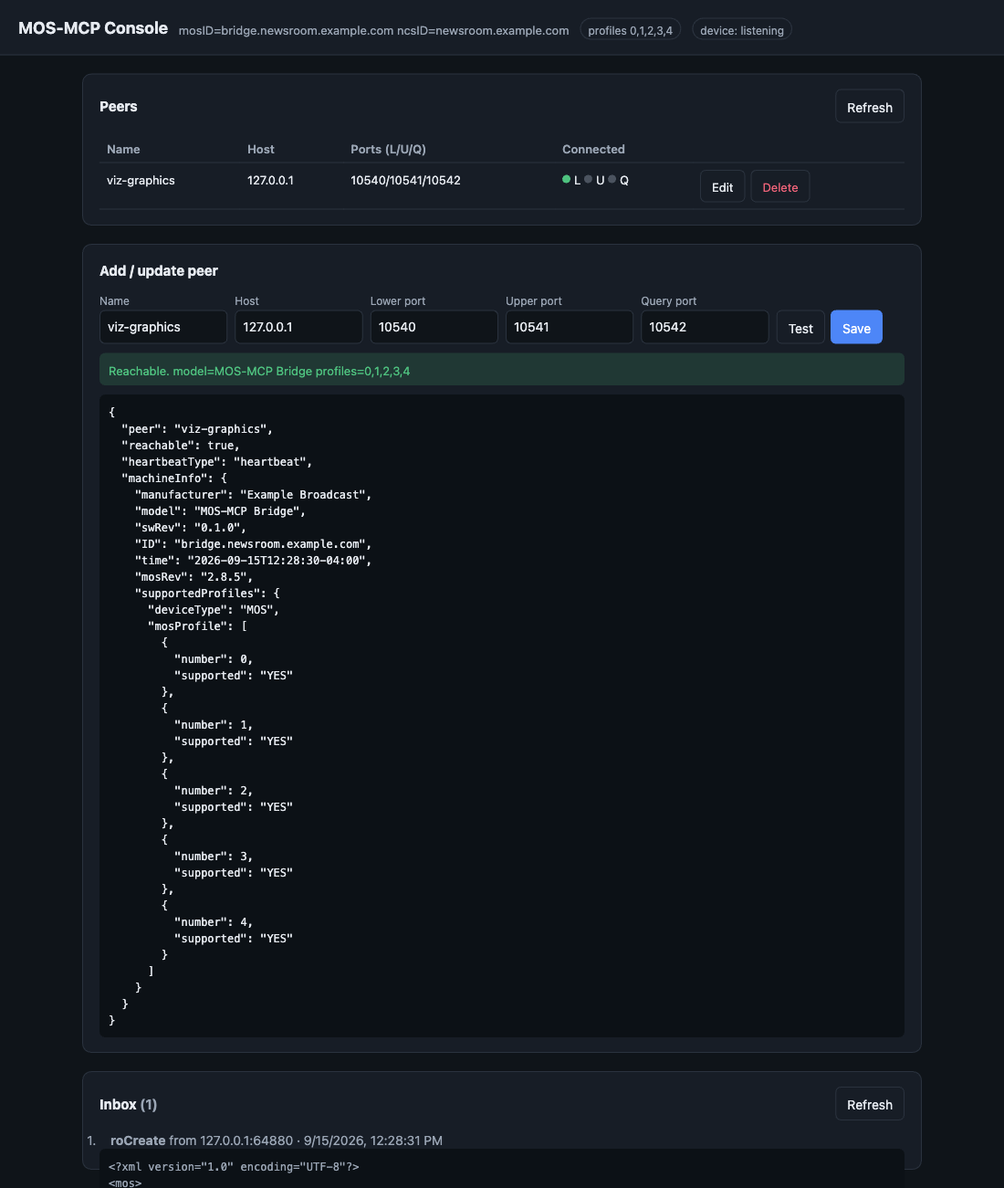
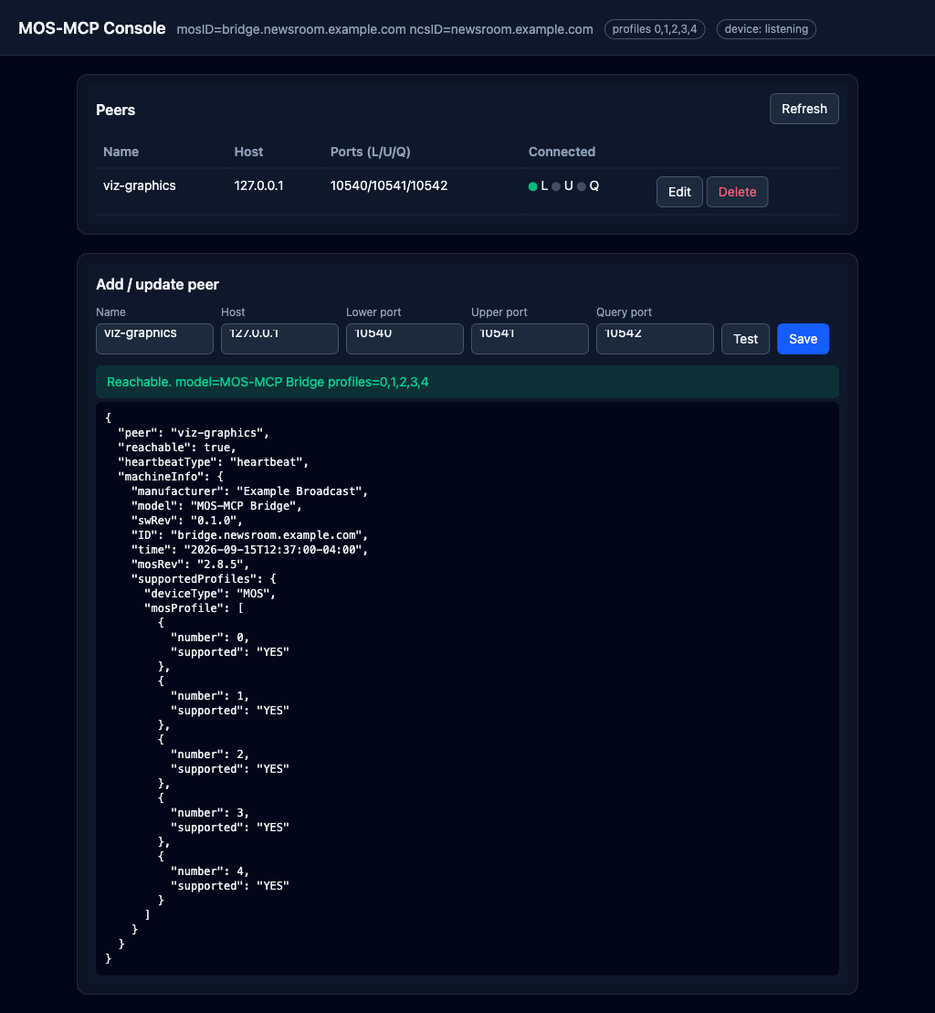
Style admin console with embedded Tailwind CSS
Restyle the console using Tailwind utility classes and @apply component
classes, keeping the existing layout and behavior. CSS is compiled by the
standalone Tailwind CLI (no Node) via scripts/build-css.sh / `make css`;
the generated internal/web/static/tailwind.css is committed and embedded
via go:embed so `go build`/`go install` stay self-contained. Screenshots
regenerated against the new UI.

diff --git a/internal/web/static/tailwind.css b/internal/web/static/tailwind.css
@@ -1,0 +1,2 @@
+/*! tailwindcss v4.3.3 | MIT License | https://tailwindcss.com */
+@layer properties{@supports (((-webkit-hyphens:none)) and (not (margin-trim:inline))) or ((-moz-orient:inline) and (not (color:rgb(from red r g b)))){*,:before,:after,::backdrop{--tw-border-style:solid;--tw-font-weight:initial;--tw-shadow:0 0 #0000;--tw-shadow-color:initial;--tw-shadow-alpha:100%;--tw-inset-shadow:0 0 #0000;--tw-inset-shadow-color:initial;--tw-inset-shadow-alpha:100%;--tw-ring-color:initial;--tw-ring-shadow:0 0 #0000;--tw-inset-ring-color:initial;--tw-inset-ring-shadow:0 0 #0000;--tw-ring-inset:initial;--tw-ring-offset-width:0px;--tw-ring-offset-color:#fff;--tw-ring-offset-shadow:0 0 #0000;--tw-blur:initial;--tw-brightness:initial;--tw-contrast:initial;--tw-grayscale:initial;--tw-hue-rotate:initial;--tw-invert:initial;--tw-opacity:initial;--tw-saturate:initial;--tw-sepia:initial;--tw-drop-shadow:initial;--tw-drop-shadow-color:initial;--tw-drop-shadow-alpha:100%;--tw-drop-shadow-size:initial}}}@layer theme{:root,:host{--font-sans:-apple-system, BlinkMacSystemFont, "Segoe UI", Roboto, "Helvetica Neue", "Noto Sans", Arial, sans-serif, "Apple Color Emoji", "Segoe UI Emoji", "Segoe UI Symbol", "Noto Color Emoji";--font-mono:ui-monospace, SFMono-Regular, Menlo, Monaco, Consolas, "Liberation Mono", "Courier New", monospace;--color-emerald-400:oklch(76.5% .177 163.223);--color-emerald-500:oklch(69.6% .17 162.48);--color-emerald-600:oklch(59.6% .145 163.225);--color-blue-500:oklch(62.3% .214 259.815);--color-blue-600:oklch(54.6% .245 262.881);--color-rose-400:oklch(71.2% .194 13.428);--color-rose-500:oklch(64.5% .246 16.439);--color-rose-600:oklch(58.6% .253 17.585);--color-slate-50:oklch(98.4% .003 247.858);--color-slate-100:oklch(96.8% .007 247.896);--color-slate-200:oklch(92.9% .013 255.508);--color-slate-300:oklch(86.9% .022 252.894);--color-slate-400:oklch(70.4% .04 256.788);--color-slate-500:oklch(55.4% .046 257.417);--color-slate-600:oklch(44.6% .043 257.281);--color-slate-800:oklch(27.9% .041 260.031);--color-slate-900:oklch(20.8% .042 265.755);--color-slate-950:oklch(12.9% .042 264.695);--color-white:#fff;--spacing:.25rem;--container-4xl:56rem;--text-xs:.75rem;--text-xs--line-height:calc(1 / .75);--text-sm:.875rem;--text-sm--line-height:calc(1.25 / .875);--text-base:1rem;--text-base--line-height:calc(1.5 / 1);--text-lg:1.125rem;--text-lg--line-height:calc(1.75 / 1.125);--font-weight-semibold:600;--radius-md:.375rem;--radius-xl:.75rem;--default-transition-duration:.15s;--default-transition-timing-function:cubic-bezier(.4, 0, .2, 1);--default-font-family:var(--font-sans);--default-mono-font-family:var(--font-mono)}}@layer base{*,:after,:before,::backdrop{box-sizing:border-box;border:0 solid;margin:0;padding:0}::file-selector-button{box-sizing:border-box;border:0 solid;margin:0;padding:0}html,:host{-webkit-text-size-adjust:100%;tab-size:4;line-height:1.5;font-family:var(--default-font-family,-apple-system, BlinkMacSystemFont, "Segoe UI", Roboto, "Helvetica Neue", "Noto Sans", Arial, sans-serif, "Apple Color Emoji", "Segoe UI Emoji", "Segoe UI Symbol", "Noto Color Emoji");font-feature-settings:var(--default-font-feature-settings,normal);font-variation-settings:var(--default-font-variation-settings,normal);-webkit-tap-highlight-color:transparent}hr{height:0;color:inherit;border-top-width:1px}abbr:where([title]){-webkit-text-decoration:underline dotted;text-decoration:underline dotted}h1,h2,h3,h4,h5,h6{font-size:inherit;font-weight:inherit}a{color:inherit;-webkit-text-decoration:inherit;-webkit-text-decoration:inherit;-webkit-text-decoration:inherit;text-decoration:inherit}b,strong{font-weight:bolder}code,kbd,samp,pre{font-family:var(--default-mono-font-family,ui-monospace, SFMono-Regular, Menlo, Monaco, Consolas, "Liberation Mono", "Courier New", monospace);font-feature-settings:var(--default-mono-font-feature-settings,normal);font-variation-settings:var(--default-mono-font-variation-settings,normal);font-size:1em}small{font-size:80%}sub,sup{vertical-align:baseline;font-size:75%;line-height:0;position:relative}sub{bottom:-.25em}sup{top:-.5em}table{text-indent:0;border-color:inherit;border-collapse:collapse}:-moz-focusring:where(:not(iframe)){outline:auto}progress{vertical-align:baseline}summary{display:list-item}ol,ul,menu{list-style:none}img,svg,video,canvas,audio,iframe,embed,object{vertical-align:middle;display:block}img,video{max-width:100%;height:auto}button,input,select,optgroup,textarea{font:inherit;font-feature-settings:inherit;font-variation-settings:inherit;letter-spacing:inherit;color:inherit;opacity:1;background-color:#0000;border-radius:0}::file-selector-button{font:inherit;font-feature-settings:inherit;font-variation-settings:inherit;letter-spacing:inherit;color:inherit;opacity:1;background-color:#0000;border-radius:0}:where(select:is([multiple],[size])) optgroup{font-weight:bolder}:where(select:is([multiple],[size])) optgroup option{padding-inline-start:20px}::file-selector-button{margin-inline-end:4px}::placeholder{opacity:1}@supports (not ((-webkit-appearance:-apple-pay-button))) or (contain-intrinsic-size:1px){::placeholder{color:currentColor}@supports (color:color-mix(in lab, red, red)){::placeholder{color:color-mix(in oklab, currentcolor 50%, transparent)}}}textarea{resize:vertical}::-webkit-search-decoration{-webkit-appearance:none}::-webkit-date-and-time-value{min-height:1lh;text-align:inherit}::-webkit-datetime-edit{display:inline-flex}::-webkit-datetime-edit-fields-wrapper{padding:0}::-webkit-datetime-edit{padding-block:0}::-webkit-datetime-edit-year-field{padding-block:0}::-webkit-datetime-edit-month-field{padding-block:0}::-webkit-datetime-edit-day-field{padding-block:0}::-webkit-datetime-edit-hour-field{padding-block:0}::-webkit-datetime-edit-minute-field{padding-block:0}::-webkit-datetime-edit-second-field{padding-block:0}::-webkit-datetime-edit-millisecond-field{padding-block:0}::-webkit-datetime-edit-meridiem-field{padding-block:0}::-webkit-calendar-picker-indicator{line-height:1}:-moz-ui-invalid{box-shadow:none}button,input:where([type=button],[type=reset],[type=submit]){appearance:button}::file-selector-button{appearance:button}::-webkit-inner-spin-button{height:auto}::-webkit-outer-spin-button{height:auto}[hidden]:where(:not([hidden=until-found])){display:none!important}}@layer components{.card{border-radius:var(--radius-xl);border-style:var(--tw-border-style);border-width:1px;border-color:var(--color-slate-200);background-color:var(--color-white);padding:calc(var(--spacing) * 4);--tw-shadow:0 1px 3px 0 var(--tw-shadow-color,#0000001a), 0 1px 2px -1px var(--tw-shadow-color,#0000001a);box-shadow:var(--tw-inset-shadow), var(--tw-inset-ring-shadow), var(--tw-ring-offset-shadow), var(--tw-ring-shadow), var(--tw-shadow)}@media (min-width:40rem){.card{padding:calc(var(--spacing) * 5)}}@media (prefers-color-scheme:dark){.card{border-color:var(--color-slate-800);background-color:var(--color-slate-900)}}.btn{cursor:pointer;border-radius:var(--radius-md);border-style:var(--tw-border-style);border-width:1px;border-color:var(--color-slate-300);background-color:var(--color-white);padding-inline:calc(var(--spacing) * 3);padding-block:calc(var(--spacing) * 1.5);font-size:var(--text-sm);line-height:var(--tw-leading,var(--text-sm--line-height));transition-property:color,background-color,border-color,outline-color,text-decoration-color,fill,stroke,--tw-gradient-from,--tw-gradient-via,--tw-gradient-to,opacity,box-shadow,transform,translate,scale,rotate,filter,-webkit-backdrop-filter,backdrop-filter,display,content-visibility,overlay,pointer-events;transition-timing-function:var(--tw-ease,var(--default-transition-timing-function));transition-duration:var(--tw-duration,var(--default-transition-duration));align-items:center;display:inline-flex}@media (hover:hover){.btn:hover{--tw-brightness:brightness(110%);filter:var(--tw-blur,) var(--tw-brightness,) var(--tw-contrast,) var(--tw-grayscale,) var(--tw-hue-rotate,) var(--tw-invert,) var(--tw-saturate,) var(--tw-sepia,) var(--tw-drop-shadow,)}}@media (prefers-color-scheme:dark){.btn{border-color:var(--color-slate-600);background-color:var(--color-slate-800)}}.btn-primary{border-color:var(--color-blue-600);background-color:var(--color-blue-600);color:var(--color-white)}@media (hover:hover){.btn-primary:hover{background-color:var(--color-blue-500)}}.btn-danger{color:var(--color-rose-600)}@media (prefers-color-scheme:dark){.btn-danger{color:var(--color-rose-400)}}.inp{border-radius:var(--radius-md);border-style:var(--tw-border-style);border-width:1px;border-color:var(--color-slate-300);background-color:var(--color-slate-50);width:100%;padding-inline:calc(var(--spacing) * 2);padding-block:calc(var(--spacing) * 1.5);font-size:var(--text-sm);line-height:var(--tw-leading,var(--text-sm--line-height));color:var(--color-slate-800);--tw-outline-style:none;outline-style:none}.inp:focus{border-color:var(--color-blue-500);--tw-ring-shadow:var(--tw-ring-inset,) 0 0 0 calc(1px + var(--tw-ring-offset-width)) var(--tw-ring-color,currentcolor);box-shadow:var(--tw-inset-shadow), var(--tw-inset-ring-shadow), var(--tw-ring-offset-shadow), var(--tw-ring-shadow), var(--tw-shadow);--tw-ring-color:var(--color-blue-500)}@media (prefers-color-scheme:dark){.inp{border-color:var(--color-slate-600);background-color:var(--color-slate-800);color:var(--color-slate-100)}}.lbl{margin-bottom:var(--spacing);font-size:var(--text-xs);line-height:var(--tw-leading,var(--text-xs--line-height));color:var(--color-slate-500);display:block}@media (prefers-color-scheme:dark){.lbl{color:var(--color-slate-400)}}.pill{border-style:var(--tw-border-style);border-width:1px;border-color:var(--color-slate-300);padding-inline:calc(var(--spacing) * 2);padding-block:calc(var(--spacing) * .5);font-size:var(--text-xs);line-height:var(--tw-leading,var(--text-xs--line-height));color:var(--color-slate-500);border-radius:3.40282e38px}@media (prefers-color-scheme:dark){.pill{border-color:var(--color-slate-600);color:var(--color-slate-400)}}.th{border-bottom-style:var(--tw-border-style);border-bottom-width:1px;border-color:var(--color-slate-200);padding-inline:calc(var(--spacing) * 2);padding-block:calc(var(--spacing) * 2);text-align:left;--tw-font-weight:var(--font-weight-semibold);font-weight:var(--font-weight-semibold);color:var(--color-slate-500)}@media (prefers-color-scheme:dark){.th{border-color:var(--color-slate-800);color:var(--color-slate-400)}}.td{border-bottom-style:var(--tw-border-style);border-bottom-width:1px;border-color:var(--color-slate-200);padding-inline:calc(var(--spacing) * 2);padding-block:calc(var(--spacing) * 2);vertical-align:top}@media (prefers-color-scheme:dark){.td{border-color:var(--color-slate-800)}}.dot{height:calc(var(--spacing) * 2.5);width:calc(var(--spacing) * 2.5);vertical-align:middle;border-radius:3.40282e38px;display:inline-block}.dot-on{background-color:var(--color-emerald-500)}.dot-off{background-color:#90a1b966}@supports (color:color-mix(in lab, red, red)){.dot-off{background-color:color-mix(in oklab, var(--color-slate-400) 40%, transparent)}}.msg{margin-top:calc(var(--spacing) * 3);border-radius:var(--radius-md);padding-inline:calc(var(--spacing) * 3);padding-block:calc(var(--spacing) * 2);font-size:var(--text-sm);line-height:var(--tw-leading,var(--text-sm--line-height))}.msg-ok{background-color:#00bb7f26}@supports (color:color-mix(in lab, red, red)){.msg-ok{background-color:color-mix(in oklab, var(--color-emerald-500) 15%, transparent)}}.msg-ok{color:var(--color-emerald-600)}@media (prefers-color-scheme:dark){.msg-ok{color:var(--color-emerald-400)}}.msg-err{background-color:#ff235726}@supports (color:color-mix(in lab, red, red)){.msg-err{background-color:color-mix(in oklab, var(--color-rose-500) 15%, transparent)}}.msg-err{color:var(--color-rose-600)}@media (prefers-color-scheme:dark){.msg-err{color:var(--color-rose-400)}}.code{margin-top:var(--spacing);border-radius:var(--radius-md);background-color:var(--color-slate-100);padding:calc(var(--spacing) * 2.5);font-size:var(--text-xs);line-height:var(--tw-leading,var(--text-xs--line-height));white-space:pre;overflow-x:auto}@media (prefers-color-scheme:dark){.code{background-color:var(--color-slate-950)}}}@layer utilities{.static{position:static}.m-0{margin:0}.mx-auto{margin-inline:auto}.mt-0{margin-top:0}.mb-1\.5{margin-bottom:calc(var(--spacing) * 1.5)}.mb-3{margin-bottom:calc(var(--spacing) * 3)}.contents{display:contents}.flex{display:flex}.grid{display:grid}.hidden{display:none}.inline{display:inline}.w-full{width:100%}.max-w-4xl{max-width:var(--container-4xl)}.flex-1{flex:1}.border-collapse{border-collapse:collapse}.cursor-pointer{cursor:pointer}.flex-wrap{flex-wrap:wrap}.items-baseline{align-items:baseline}.items-center{align-items:center}.items-end{align-items:flex-end}.gap-2{gap:calc(var(--spacing) * 2)}.gap-3{gap:calc(var(--spacing) * 3)}.gap-5{gap:calc(var(--spacing) * 5)}.overflow-x-auto{overflow-x:auto}.border-b{border-bottom-style:var(--tw-border-style);border-bottom-width:1px}.border-slate-200{border-color:var(--color-slate-200)}.bg-slate-50{background-color:var(--color-slate-50)}.bg-white{background-color:var(--color-white)}.p-5{padding:calc(var(--spacing) * 5)}.px-5{padding-inline:calc(var(--spacing) * 5)}.py-4{padding-block:calc(var(--spacing) * 4)}.font-sans{font-family:var(--font-sans)}.text-base{font-size:var(--text-base);line-height:var(--tw-leading,var(--text-base--line-height))}.text-lg{font-size:var(--text-lg);line-height:var(--tw-leading,var(--text-lg--line-height))}.text-sm{font-size:var(--text-sm);line-height:var(--tw-leading,var(--text-sm--line-height))}.font-semibold{--tw-font-weight:var(--font-weight-semibold);font-weight:var(--font-weight-semibold)}.whitespace-nowrap{white-space:nowrap}.text-slate-500{color:var(--color-slate-500)}.text-slate-800{color:var(--color-slate-800)}.ring{--tw-ring-shadow:var(--tw-ring-inset,) 0 0 0 calc(1px + var(--tw-ring-offset-width)) var(--tw-ring-color,currentcolor);box-shadow:var(--tw-inset-shadow), var(--tw-inset-ring-shadow), var(--tw-ring-offset-shadow), var(--tw-ring-shadow), var(--tw-shadow)}@media (prefers-color-scheme:dark){.dark\:border-slate-800{border-color:var(--color-slate-800)}.dark\:bg-slate-900{background-color:var(--color-slate-900)}.dark\:bg-slate-950{background-color:var(--color-slate-950)}.dark\:text-slate-100{color:var(--color-slate-100)}.dark\:text-slate-400{color:var(--color-slate-400)}}}@property --tw-border-style{syntax:"*";inherits:false;initial-value:solid}@property --tw-font-weight{syntax:"*";inherits:false}@property --tw-shadow{syntax:"*";inherits:false;initial-value:0 0 #0000}@property --tw-shadow-color{syntax:"*";inherits:false}@property --tw-shadow-alpha{syntax:"<percentage>";inherits:false;initial-value:100%}@property --tw-inset-shadow{syntax:"*";inherits:false;initial-value:0 0 #0000}@property --tw-inset-shadow-color{syntax:"*";inherits:false}@property --tw-inset-shadow-alpha{syntax:"<percentage>";inherits:false;initial-value:100%}@property --tw-ring-color{syntax:"*";inherits:false}@property --tw-ring-shadow{syntax:"*";inherits:false;initial-value:0 0 #0000}@property --tw-inset-ring-color{syntax:"*";inherits:false}@property --tw-inset-ring-shadow{syntax:"*";inherits:false;initial-value:0 0 #0000}@property --tw-ring-inset{syntax:"*";inherits:false}@property --tw-ring-offset-width{syntax:"<length>";inherits:false;initial-value:0}@property --tw-ring-offset-color{syntax:"*";inherits:false;initial-value:#fff}@property --tw-ring-offset-shadow{syntax:"*";inherits:false;initial-value:0 0 #0000}@property --tw-blur{syntax:"*";inherits:false}@property --tw-brightness{syntax:"*";inherits:false}@property --tw-contrast{syntax:"*";inherits:false}@property --tw-grayscale{syntax:"*";inherits:false}@property --tw-hue-rotate{syntax:"*";inherits:false}@property --tw-invert{syntax:"*";inherits:false}@property --tw-opacity{syntax:"*";inherits:false}@property --tw-saturate{syntax:"*";inherits:false}@property --tw-sepia{syntax:"*";inherits:false}@property --tw-drop-shadow{syntax:"*";inherits:false}@property --tw-drop-shadow-color{syntax:"*";inherits:false}@property --tw-drop-shadow-alpha{syntax:"<percentage>";inherits:false;initial-value:100%}@property --tw-drop-shadow-size{syntax:"*";inherits:false}

diff --git a/internal/web/static/index.html b/internal/web/static/index.html
@@ -4,97 +4,58 @@
 <meta charset="utf-8" />
 <meta name="viewport" content="width=device-width, initial-scale=1" />
 <title>MOS-MCP Console</title>
-<style>
-  :root {
-    --bg: #f6f7f9; --panel: #ffffff; --border: #d8dce3; --text: #1c2330;
-    --muted: #667085; --accent: #2f6fed; --accent-fg: #fff; --ok: #1a7f47;
-    --err: #c02636; --code-bg: #f0f2f5; --shadow: 0 1px 3px rgba(16,24,40,.08);
-  }
-  @media (prefers-color-scheme: dark) {
-    :root {
-      --bg: #0f1419; --panel: #171d26; --border: #2a323e; --text: #e6eaf0;
-      --muted: #9aa5b4; --accent: #4d86f7; --accent-fg: #fff; --ok: #4ec27f;
-      --err: #f2647a; --code-bg: #0c1116; --shadow: none;
-    }
-  }
-  * { box-sizing: border-box; }
-  body { margin: 0; font: 14px/1.5 system-ui, -apple-system, Segoe UI, Roboto, sans-serif;
-         background: var(--bg); color: var(--text); }
-  header { padding: 16px 20px; border-bottom: 1px solid var(--border); background: var(--panel);
-           display: flex; align-items: baseline; gap: 12px; flex-wrap: wrap; }
-  header h1 { font-size: 18px; margin: 0; }
-  header .id { color: var(--muted); font-size: 13px; }
-  main { max-width: 960px; margin: 0 auto; padding: 20px; display: grid; gap: 20px; }
-  .card { background: var(--panel); border: 1px solid var(--border); border-radius: 10px;
-          padding: 16px 18px; box-shadow: var(--shadow); }
-  .card h2 { font-size: 15px; margin: 0 0 12px; }
-  table { width: 100%; border-collapse: collapse; font-size: 13px; }
-  th, td { text-align: left; padding: 7px 8px; border-bottom: 1px solid var(--border); vertical-align: top; }
-  th { color: var(--muted); font-weight: 600; }
-  .dot { display: inline-block; width: 9px; height: 9px; border-radius: 50%; margin-right: 4px; }
-  .dot.on { background: var(--ok); } .dot.off { background: var(--muted); opacity: .4; }
-  form.row { display: grid; grid-template-columns: repeat(auto-fit, minmax(120px, 1fr)); gap: 8px; align-items: end; }
-  label { display: block; font-size: 12px; color: var(--muted); margin-bottom: 3px; }
-  input { width: 100%; padding: 7px 8px; border: 1px solid var(--border); border-radius: 6px;
-          background: var(--bg); color: var(--text); font: inherit; }
-  button { padding: 7px 12px; border: 1px solid var(--border); border-radius: 6px; background: var(--panel);
-           color: var(--text); font: inherit; cursor: pointer; }
-  button.primary { background: var(--accent); color: var(--accent-fg); border-color: var(--accent); }
-  button.danger { color: var(--err); }
-  button:hover { filter: brightness(1.05); }
-  .actions { display: flex; gap: 6px; }
-  .muted { color: var(--muted); }
-  pre { background: var(--code-bg); padding: 10px; border-radius: 6px; overflow-x: auto; font-size: 12px; margin: 0; }
-  .msg { padding: 8px 10px; border-radius: 6px; font-size: 13px; margin-top: 10px; display: none; }
-  .msg.ok { background: color-mix(in srgb, var(--ok) 15%, transparent); color: var(--ok); display: block; }
-  .msg.err { background: color-mix(in srgb, var(--err) 15%, transparent); color: var(--err); display: block; }
-  .toolbar { display: flex; gap: 8px; align-items: center; margin-bottom: 10px; flex-wrap: wrap; }
-  .pill { font-size: 12px; padding: 2px 8px; border: 1px solid var(--border); border-radius: 999px; color: var(--muted); }
-</style>
+<link rel="stylesheet" href="tailwind.css" />
 </head>
-<body>
-<header>
-  <h1>MOS-MCP Console</h1>
-  <span class="id" id="identity">…</span>
+<body class="m-0 font-sans bg-slate-50 text-slate-800 dark:bg-slate-950 dark:text-slate-100">
+<header class="px-5 py-4 border-b border-slate-200 dark:border-slate-800 bg-white dark:bg-slate-900 flex items-baseline gap-3 flex-wrap">
+  <h1 class="text-lg font-semibold m-0">MOS-MCP Console</h1>
+  <span class="text-sm text-slate-500 dark:text-slate-400" id="identity">…</span>
   <span class="pill" id="profiles"></span>
   <span class="pill" id="device"></span>
 </header>
-<main>
+
+<main class="max-w-4xl mx-auto p-5 grid gap-5">
   <section class="card">
-    <div class="toolbar">
-      <h2 style="margin:0;flex:1">Peers</h2>
-      <button onclick="refresh()">Refresh</button>
+    <div class="flex gap-3 items-center mb-3 flex-wrap">
+      <h2 class="text-base font-semibold m-0 flex-1">Peers</h2>
+      <button class="btn" onclick="refresh()">Refresh</button>
     </div>
-    <table>
-      <thead><tr><th>Name</th><th>Host</th><th>Ports (L/U/Q)</th><th>Connected</th><th></th></tr></thead>
-      <tbody id="peers"></tbody>
-    </table>
-    <div id="peerMsg" class="msg"></div>
+    <div class="overflow-x-auto">
+      <table class="w-full text-sm border-collapse">
+        <thead><tr>
+          <th class="th">Name</th><th class="th">Host</th>
+          <th class="th">Ports (L/U/Q)</th><th class="th">Connected</th><th class="th"></th>
+        </tr></thead>
+        <tbody id="peers"></tbody>
+      </table>
+    </div>
+    <div id="peerMsg" class="msg hidden"></div>
   </section>
 
   <section class="card">
-    <h2>Add / update peer</h2>
-    <form class="row" id="peerForm" onsubmit="return addPeer(event)">
-      <div><label>Name</label><input name="name" required placeholder="vizrt" /></div>
-      <div><label>Host</label><input name="host" required placeholder="10.0.0.5" /></div>
-      <div><label>Lower port</label><input name="lowerPort" type="number" placeholder="10540" /></div>
-      <div><label>Upper port</label><input name="upperPort" type="number" placeholder="10541" /></div>
-      <div><label>Query port</label><input name="queryPort" type="number" placeholder="10542" /></div>
-      <div class="actions">
-        <button type="button" onclick="testPeer()">Test</button>
-        <button type="submit" class="primary">Save</button>
+    <h2 class="text-base font-semibold mt-0 mb-3">Add / update peer</h2>
+    <form id="peerForm" onsubmit="return addPeer(event)"
+          class="grid gap-2 items-end" style="grid-template-columns:repeat(auto-fit,minmax(120px,1fr))">
+      <div><label class="lbl">Name</label><input class="inp" name="name" required placeholder="vizrt" /></div>
+      <div><label class="lbl">Host</label><input class="inp" name="host" required placeholder="10.0.0.5" /></div>
+      <div><label class="lbl">Lower port</label><input class="inp" name="lowerPort" type="number" placeholder="10540" /></div>
+      <div><label class="lbl">Upper port</label><input class="inp" name="upperPort" type="number" placeholder="10541" /></div>
+      <div><label class="lbl">Query port</label><input class="inp" name="queryPort" type="number" placeholder="10542" /></div>
+      <div class="flex gap-2">
+        <button type="button" class="btn" onclick="testPeer()">Test</button>
+        <button type="submit" class="btn btn-primary">Save</button>
       </div>
     </form>
-    <div id="testMsg" class="msg"></div>
-    <pre id="testOut" style="display:none;margin-top:10px"></pre>
+    <div id="testMsg" class="msg hidden"></div>
+    <pre id="testOut" class="code hidden"></pre>
   </section>
 
   <section class="card">
-    <div class="toolbar">
-      <h2 style="margin:0;flex:1">Inbox <span class="muted" id="inboxCount"></span></h2>
-      <button onclick="loadInbox()">Refresh</button>
+    <div class="flex gap-3 items-center mb-3 flex-wrap">
+      <h2 class="text-base font-semibold m-0 flex-1">Inbox <span class="text-slate-500 dark:text-slate-400" id="inboxCount"></span></h2>
+      <button class="btn" onclick="loadInbox()">Refresh</button>
     </div>
-    <div id="inbox" class="muted">No messages.</div>
+    <div id="inbox" class="text-slate-500 dark:text-slate-400 text-sm">No messages.</div>
   </section>
 </main>
 
@@ -107,7 +68,7 @@ async function api(path, opts) {
   return body;
 }
 function flash(el, ok, text) {
-  el.className = "msg " + (ok ? "ok" : "err");
+  el.className = "msg " + (ok ? "msg-ok" : "msg-err");
   el.textContent = text;
 }
 function form2peer() {
@@ -128,19 +89,19 @@ async function refresh() {
     const peers = st.peers || [];
     $("peers").innerHTML = peers.length ? peers.map(p => `
       <tr>
-        <td>${esc(p.name)}</td>
-        <td>${esc(p.host)}</td>
-        <td>${p.lowerPort}/${p.upperPort}/${p.queryPort}</td>
-        <td>
-          <span class="dot ${p.lowerConnected?'on':'off'}"></span>L
-          <span class="dot ${p.upperConnected?'on':'off'}"></span>U
-          <span class="dot ${p.queryConnected?'on':'off'}"></span>Q
+        <td class="td">${esc(p.name)}</td>
+        <td class="td">${esc(p.host)}</td>
+        <td class="td">${p.lowerPort}/${p.upperPort}/${p.queryPort}</td>
+        <td class="td">
+          <span class="dot ${p.lowerConnected?'dot-on':'dot-off'}"></span> L
+          <span class="dot ${p.upperConnected?'dot-on':'dot-off'}"></span> U
+          <span class="dot ${p.queryConnected?'dot-on':'dot-off'}"></span> Q
         </td>
-        <td class="actions">
-          <button onclick='fillPeer(${JSON.stringify(p)})'>Edit</button>
-          <button class="danger" onclick="delPeer('${esc(p.name)}')">Delete</button>
+        <td class="td whitespace-nowrap">
+          <button class="btn" onclick='fillPeer(${JSON.stringify(p)})'>Edit</button>
+          <button class="btn btn-danger" onclick="delPeer('${esc(p.name)}')">Delete</button>
         </td>
-      </tr>`).join("") : `<tr><td colspan="5" class="muted">No peers configured.</td></tr>`;
+      </tr>`).join("") : `<tr><td class="td text-slate-500 dark:text-slate-400" colspan="5">No peers configured.</td></tr>`;
   } catch (e) { flash($("peerMsg"), false, e.message); }
 }
 function esc(s){ return String(s).replace(/[&<>"']/g, c => ({'&':'&amp;','<':'&lt;','>':'&gt;','"':'&quot;',"'":'&#39;'}[c])); }
@@ -165,7 +126,7 @@ async function delPeer(name) {
   catch (e) { flash($("peerMsg"), false, e.message); }
 }
 async function testPeer() {
-  $("testOut").style.display = "none";
+  $("testOut").classList.add("hidden");
   flash($("testMsg"), true, "Testing…");
   try {
     const r = await api("/api/peers/test", { method: "POST", headers: {"Content-Type":"application/json"}, body: JSON.stringify(form2peer()) });
@@ -177,7 +138,7 @@ async function testPeer() {
       flash($("testMsg"), false, r.error || "Not reachable.");
     }
     $("testOut").textContent = JSON.stringify(r, null, 2);
-    $("testOut").style.display = "block";
+    $("testOut").className = "code";
   } catch (e) { flash($("testMsg"), false, e.message); }
 }
 async function loadInbox() {
@@ -185,10 +146,10 @@ async function loadInbox() {
     const items = await api("/api/inbox?limit=50");
     $("inboxCount").textContent = items.length ? `(${items.length})` : "";
     $("inbox").innerHTML = items.length ? items.map(m => `
-      <details style="margin-bottom:6px">
-        <summary><strong>${esc(m.type)}</strong> <span class="muted">from ${esc(m.peer)} · ${new Date(m.received).toLocaleString()}</span></summary>
-        <pre>${esc(m.xml)}</pre>
-      </details>`).join("") : `<span class="muted">No messages.</span>`;
+      <details class="mb-1.5">
+        <summary class="cursor-pointer"><strong>${esc(m.type)}</strong> <span class="text-slate-500 dark:text-slate-400">from ${esc(m.peer)} · ${new Date(m.received).toLocaleString()}</span></summary>
+        <pre class="code">${esc(m.xml)}</pre>
+      </details>`).join("") : `<span class="text-slate-500 dark:text-slate-400">No messages.</span>`;
   } catch (e) { $("inbox").textContent = e.message; }
 }
 refresh(); loadInbox();

diff --git a/internal/web/input.css b/internal/web/input.css
@@ -1,0 +1,64 @@
+/*
+ * Tailwind source for the admin console.
+ *
+ * This is compiled to static/tailwind.css by the standalone Tailwind CLI
+ * (no Node required) — run `make css` or scripts/build-css.sh. The generated
+ * file is committed and embedded via go:embed so `go build` stays
+ * self-contained. Dark mode uses Tailwind's default prefers-color-scheme
+ * strategy, matching the viewer's system theme.
+ */
+@import "tailwindcss";
+
+/* Scan the page (utility classes appear in markup and in inline JS strings). */
+@source "./static/index.html";
+
+@layer components {
+  .card {
+    @apply bg-white dark:bg-slate-900 border border-slate-200 dark:border-slate-800 rounded-xl p-4 sm:p-5 shadow-sm;
+  }
+  .btn {
+    @apply inline-flex items-center rounded-md border border-slate-300 dark:border-slate-600 bg-white dark:bg-slate-800 px-3 py-1.5 text-sm cursor-pointer transition hover:brightness-110;
+  }
+  .btn-primary {
+    @apply bg-blue-600 hover:bg-blue-500 text-white border-blue-600;
+  }
+  .btn-danger {
+    @apply text-rose-600 dark:text-rose-400;
+  }
+  .inp {
+    @apply w-full rounded-md border border-slate-300 dark:border-slate-600 bg-slate-50 dark:bg-slate-800 px-2 py-1.5 text-sm text-slate-800 dark:text-slate-100 outline-none focus:border-blue-500 focus:ring-1 focus:ring-blue-500;
+  }
+  .lbl {
+    @apply block text-xs text-slate-500 dark:text-slate-400 mb-1;
+  }
+  .pill {
+    @apply text-xs px-2 py-0.5 border border-slate-300 dark:border-slate-600 rounded-full text-slate-500 dark:text-slate-400;
+  }
+  .th {
+    @apply text-left text-slate-500 dark:text-slate-400 font-semibold py-2 px-2 border-b border-slate-200 dark:border-slate-800;
+  }
+  .td {
+    @apply py-2 px-2 border-b border-slate-200 dark:border-slate-800 align-top;
+  }
+  .dot {
+    @apply inline-block w-2.5 h-2.5 rounded-full align-middle;
+  }
+  .dot-on {
+    @apply bg-emerald-500;
+  }
+  .dot-off {
+    @apply bg-slate-400/40;
+  }
+  .msg {
+    @apply rounded-md px-3 py-2 text-sm mt-3;
+  }
+  .msg-ok {
+    @apply bg-emerald-500/15 text-emerald-600 dark:text-emerald-400;
+  }
+  .msg-err {
+    @apply bg-rose-500/15 text-rose-600 dark:text-rose-400;
+  }
+  .code {
+    @apply bg-slate-100 dark:bg-slate-950 rounded-md p-2.5 overflow-x-auto text-xs mt-1 whitespace-pre;
+  }
+}

diff --git a/README.md b/README.md
@@ -221,8 +221,9 @@ At `web.addr` (default <http://127.0.0.1:8088>) you can:
 - **Test** a peer (heartbeat + `reqMachInfo`) and see its reported capabilities
 - Watch the inbox of messages received from a connected NCS
 
-The console is a single embedded HTML page — no separate server or build step,
-and it reads and writes the same config file the CLI uses.
+The console is a single embedded HTML page styled with Tailwind CSS (compiled
+ahead of time, no Node.js at build), and it reads and writes the same config
+file the CLI uses.
 
 ![MOS-MCP admin console](docs/screenshots/console-overview.png)
 
@@ -237,10 +238,21 @@ check that stands in for MOS's absent discovery:
 ## Development
 
 ```bash
-go build ./...          # build
-go test ./...           # unit + integration tests
-go vet ./...            # static checks
+make build   # go build ./...
+make test    # go test ./...
+make vet     # go vet ./...
+make css     # regenerate the admin console's embedded Tailwind CSS
 ```
+
+### Admin console styling (Tailwind)
+
+The console is styled with [Tailwind CSS](https://tailwindcss.com), compiled by
+the **standalone Tailwind CLI** (no Node.js required). The source lives in
+[`internal/web/input.css`](internal/web/input.css); running `make css` downloads
+the CLI to `.tools/` and generates [`internal/web/static/tailwind.css`](internal/web/static/tailwind.css),
+which is committed and embedded via `go:embed`. Because the generated CSS is
+committed, `go build` and `go install` stay self-contained — you only need to run
+`make css` after changing the console markup or the input CSS.
 
 Cross-platform archives are produced by [GoReleaser](https://goreleaser.com):
 
